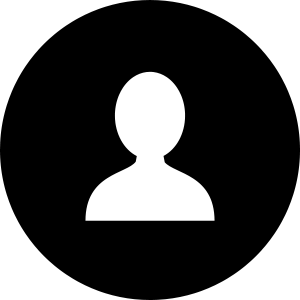
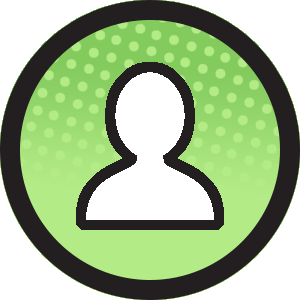
JC - Harmonisation navbar
- création et intégration des nouvelles icones
- harmonisation du code html de la navbar dans les pages

diff --git a/www/v4/Contact.html b/www/v4/Contact.html
@@ -14,40 +14,29 @@
 		<title>U POP</title>
 	</head>
 	<body>
-		<!-- barre de navigation -->
-		<nav class="navbar navbar-default menu">
-			<div class="container-fluid">
-				<div class="nav-header">
-					<button class="navbar-toggle collapsed" data-toggle="collapse" data-target="#menu" name="button"><img class="imgButton" src="images/iconeupop.png"></button>
-				</div>
-				<div class="collapse navbar-collapse navbar-left" id="menu">
-					<ul class="nav navbar-nav text-center">
-						<li><img class="logoBar" src="images/iconeupop.png"></li>
-						<li>
-							<a href="accueil.html"><img class="imgButton" src="images/home.png"></a>
-							Accueil
-						</li>
-						<li>
-							<a href="figurines.html"><img class="imgButton" src="images/anime.png"></a>
-							Figurines
-						</li>
-						<li>
-							<a href="contact.html"><img class="imgButton" src="images/contact.png"></a>
-							Contact
-						</li>
-						<li>
-							<a href="compte.html"><img class="imgButton" src="images/compte.png"></a>
-							Compte
-						</li>
-						<li>
-							<a href="panier.html"><img class="imgButton" src="images/panier.png"></a>
-							Panier
-						</li>
-					</ul>
-				</div>
+<!-- barre de navigation -->
+	<nav class="navbar navbar-default menu">
+		<div class="container-fluid">
+
+			<div class="nav-header">
+				<button class="navbar-toggle collapsed" data-toggle="collapse" data-target="#menu" name="button">
+				 	<img class="imgButton" src="images/iconeupop.png">
+			 	</button>
 			</div>
-		</nav>
-		<!-- fin barre de navigation -->
+
+			<div class="collapse navbar-collapse navbar-left" id="menu">
+				<ul class="nav navbar-nav text-center">
+					<li><img class="logoBar" src="images/iconeupop.png"></li>
+					<li><a href="accueil.html" ><img class="imgButton" src="images/home.png"></a>Accueil</li>
+					<li><a href="figurines.html"><img class="imgButton" src="images/figurine.png"></a>Figurines</li>
+					<li><a href="contact.html"><img class="imgButton" src="images/contact.png"></a>Contact</li>
+					<li><a href="compte.html"><img class="imgButton" src="images/compte.png"></a>Compte</li>
+					<li><a href="panier.html"><img class="imgButton" src="images/panier.png"></a>Panier</li>
+				</ul>
+			</div>
+		</div>
+	</nav>
+<!-- fin barre de navigation -->
 		<!-- contenu de la page -->	
 		<div class="jumbotron jumbotron-sm barre barre-sm">
 			<div class="container">

diff --git a/www/v4/Compte.html b/www/v4/Compte.html
@@ -14,40 +14,29 @@
 		<title>U POP</title>
 	</head>
 	<body>
-		<!-- barre de navigation -->
-		<nav class="navbar navbar-default menu">
-			<div class="container-fluid">
-				<div class="nav-header">
-					<button class="navbar-toggle collapsed" data-toggle="collapse" data-target="#menu" name="button"><img class="imgButton" src="images/iconeupop.png"></button>
-				</div>
-				<div class="collapse navbar-collapse navbar-left" id="menu">
-					<ul class="nav navbar-nav text-center">
-						<li><img class="logoBar" src="images/iconeupop.png"></li>
-						<li>
-							<a href="accueil.html"><img class="imgButton" src="images/home.png"></a>
-							Accueil
-						</li>
-						<li>
-							<a href="figurines.html"><img class="imgButton" src="images/anime.png"></a>
-							Figurines
-						</li>
-						<li>
-							<a href="contact.html"><img class="imgButton" src="images/contact.png"></a>
-							Contact
-						</li>
-						<li>
-							<a href="compte.html"><img class="imgButton" src="images/compte.png"></a>
-							Compte
-						</li>
-						<li>
-							<a href="panier.html"><img class="imgButton" src="images/panier.png"></a>
-							Panier
-						</li>
-					</ul>
-				</div>
+<!-- barre de navigation -->
+	<nav class="navbar navbar-default menu">
+		<div class="container-fluid">
+
+			<div class="nav-header">
+				<button class="navbar-toggle collapsed" data-toggle="collapse" data-target="#menu" name="button">
+				 	<img class="imgButton" src="images/iconeupop.png">
+			 	</button>
 			</div>
-		</nav>
-		<!-- fin barre de navigation -->
+
+			<div class="collapse navbar-collapse navbar-left" id="menu">
+				<ul class="nav navbar-nav text-center">
+					<li><img class="logoBar" src="images/iconeupop.png"></li>
+					<li><a href="accueil.html" ><img class="imgButton" src="images/home.png"></a>Accueil</li>
+					<li><a href="figurines.html"><img class="imgButton" src="images/figurine.png"></a>Figurines</li>
+					<li><a href="contact.html"><img class="imgButton" src="images/contact.png"></a>Contact</li>
+					<li><a href="compte.html"><img class="imgButton" src="images/compte.png"></a>Compte</li>
+					<li><a href="panier.html"><img class="imgButton" src="images/panier.png"></a>Panier</li>
+				</ul>
+			</div>
+		</div>
+	</nav>
+<!-- fin barre de navigation -->
 		<!-- contenu de la page -->
 		<div class="container">
 			<div class="row centered-form">

diff --git a/www/v4/Figurines.html b/www/v4/Figurines.html
@@ -31,21 +31,20 @@
 
 			<div class="nav-header">
 				<button class="navbar-toggle collapsed" data-toggle="collapse" data-target="#menu" name="button">
-				 	<img class="imgButton" src="images/iconeupop.png">
-			 	</button>
+					<img class="imgButton" src="images/iconeupop.png">
+				</button>
 			</div>
 
 			<div class="collapse navbar-collapse navbar-left" id="menu">
 				<ul class="nav navbar-nav text-center">
 					<li><img class="logoBar" src="images/iconeupop.png"></li>
-					<li><a href="accueil.html"><img class="imgButton" src="images/home.png"></a>Accueil</li>
-					<li><a href="figurines.html"><img class="imgButton" src="images/anime.png"></a>Figurines</li>
+					<li><a href="accueil.html" ><img class="imgButton" src="images/home.png"></a>Accueil</li>
+					<li><a href="figurines.html"><img class="imgButton" src="images/figurine.png"></a>Figurines</li>
 					<li><a href="contact.html"><img class="imgButton" src="images/contact.png"></a>Contact</li>
 					<li><a href="compte.html"><img class="imgButton" src="images/compte.png"></a>Compte</li>
 					<li><a href="panier.html"><img class="imgButton" src="images/panier.png"></a>Panier</li>
 				</ul>
 			</div>
-
 		</div>
 	</nav>
 <!-- fin barre de navigation -->

diff --git a/www/v4/Panier.html b/www/v4/Panier.html
@@ -38,14 +38,13 @@
 			<div class="collapse navbar-collapse navbar-left" id="menu">
 				<ul class="nav navbar-nav text-center">
 					<li><img class="logoBar" src="images/iconeupop.png"></li>
-					<li><a href="accueil.html"><img class="imgButton" src="images/home.png"></a>Accueil</li>
-					<li><a href="figurines.html"><img class="imgButton" src="images/anime.png"></a>Figurines</li>
+					<li><a href="accueil.html" ><img class="imgButton" src="images/home.png"></a>Accueil</li>
+					<li><a href="figurines.html"><img class="imgButton" src="images/figurine.png"></a>Figurines</li>
 					<li><a href="contact.html"><img class="imgButton" src="images/contact.png"></a>Contact</li>
 					<li><a href="compte.html"><img class="imgButton" src="images/compte.png"></a>Compte</li>
 					<li><a href="panier.html"><img class="imgButton" src="images/panier.png"></a>Panier</li>
 				</ul>
 			</div>
-
 		</div>
 	</nav>
 <!-- fin barre de navigation -->

diff --git a/www/v4/Accueil.html b/www/v4/Accueil.html
@@ -39,13 +39,12 @@
 				<ul class="nav navbar-nav text-center">
 					<li><img class="logoBar" src="images/iconeupop.png"></li>
 					<li><a href="accueil.html" ><img class="imgButton" src="images/home.png"></a>Accueil</li>
-					<li><a href="figurines.html"><img class="imgButton" src="images/anime.png"></a>Figurines</li>
+					<li><a href="figurines.html"><img class="imgButton" src="images/figurine.png"></a>Figurines</li>
 					<li><a href="contact.html"><img class="imgButton" src="images/contact.png"></a>Contact</li>
 					<li><a href="compte.html"><img class="imgButton" src="images/compte.png"></a>Compte</li>
 					<li><a href="panier.html"><img class="imgButton" src="images/panier.png"></a>Panier</li>
 				</ul>
 			</div>
-
 		</div>
 	</nav>
 <!-- fin barre de navigation -->
